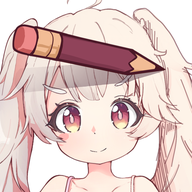
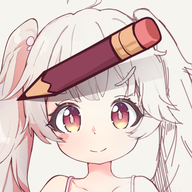
v0.10.14: 图标 v2 全档收货——手绘 32 像素档接线标签页，底色统一 #f6f4ef
大图/小图两份 .ora 底色层补满不透明（user 2026-08-21），导出件零透明像素。
新增 icon-32.png = 手绘 32×32 原样 1:1（不过缩放管线）；icon.svg 退出 favicon 竞争，
只留给 manifest sizes=any——它内嵌 192 栅格，挂 rel=icon 会被浏览器缩成灰雾。
三处接线同步：index.html / SW STATIC_PRECACHE / deploy.yml 白名单。

diff --git a/index.html b/index.html
@@ -51,7 +51,9 @@
     <meta name="apple-mobile-web-app-title" content="WeebPaint" />
     <title>WeebPaint</title>
     <link rel="manifest" href="./manifest.webmanifest" />
-    <link rel="icon" href="./icon.svg" type="image/svg+xml" />
+    <!-- 标签页图标走手绘像素档（32×32 逐像素画的，详 ai-docs/20260821-icon-tiers.md）。icon.svg 内嵌的是 192 栅格，
+         留给 manifest 的 sizes=any 用；若挂在这里浏览器会优先取它再缩到 16，糊成一团。 -->
+    <link rel="icon" href="./icon-32.png" type="image/png" sizes="32x32" />
     <link rel="icon" href="./icon-192.png" type="image/png" sizes="192x192" />
     <link rel="apple-touch-icon" sizes="180x180" href="./apple-touch-icon-180.png" />
     <link rel="stylesheet" href="./styles.css?v=7caf15b1e461" />

diff --git a/src/version.ts b/src/version.ts
@@ -5,4 +5,4 @@
 //
 // v121 起改 ES module 导出：bundle 后 esbuild 把字面值 inline 进 weebpaint-<hash>.mjs。
 // 跟 bundle 一起 hash 出新文件名，不再需要 SW 合成 / import URL rewrite 等老花招。
-export const WEEBPAINT_VERSION = "v0.10.13-2026-08-21";
+export const WEEBPAINT_VERSION = "v0.10.14-2026-08-21";

diff --git a/service-worker.js b/service-worker.js
@@ -14,6 +14,7 @@ const STATIC_PRECACHE = [
   "./index.html",
   "./manifest.webmanifest",
   "./icon.svg",
+  "./icon-32.png",
   "./icon-192.png",
   "./icon-512.png",
   "./apple-touch-icon-180.png",

diff --git a/ai-docs/20260821-icon-tiers.md b/ai-docs/20260821-icon-tiers.md
@@ -1,0 +1,38 @@
+# 图标档位与接线（为什么有一张手绘的 32×32）
+
+> as-of v0.10.14 / 2026-08-21 · 美术源在 OneDrive `apps/WeebPaint/`，不进 repo（大稿 4.6MB）
+
+## 档位表
+
+| 文件 | 来源 | 生成方式 | 用在哪 |
+|---|---|---|---|
+| `icon-32.png` | `20260821-WeebPaint像素图标.ora`（32×32，user 手绘） | **1:1 原样，绝不重采样** | 浏览器标签页 / 书签 / 任务栏 |
+| `icon-192.png` | `20260820-WeebPaint图标设计.ora`（1024×1024） | LANCZOS 缩放 | manifest、`<link rel=icon>` 大档 |
+| `icon-512.png` | 同上 | LANCZOS 缩放 | 装机弹窗、manifest `maskable` |
+| `apple-touch-icon-180.png` | 同上 | LANCZOS 缩放 | iOS/iPad 主屏 |
+| `icon.svg` | 同上 | 内嵌 192 栅格的 `<image>` 包装 | **只给 manifest 的 `sizes:"any"`** |
+
+底色统一 `#f6f4ef`（家族米色，= manifest `background_color`，与 ScratchPad / RealHome 同源）。
+两份 .ora 的底色层 2026-08-21 由 user 补成不透明满铺，导出件因此零透明像素——深色标签栏上不会漏底。
+
+## 两条别再踩回去的线
+
+**① `icon.svg` 不许挂进 `<link rel="icon">`。**
+它内嵌的是 192 栅格、没有任何矢量可缩放性。一旦挂上，浏览器会优先取 SVG 再自行缩到 16 px，
+把细节缩成灰雾——这正是 2026-08-21 那轮要手绘 32 档的起因。标签页必须走 `icon-32.png`。
+
+**② `icon-32.png` 不许由大稿缩放重生成。**
+它是逐像素手画的：线稿整体压淡（最暗 L=59.1）好让铅笔（最暗 L=35.7）成为画面里唯一的深色主体，
+构图也换成拉近裁切（刘海+双眼撑满、铅笔斜切）。大稿缩到 32 得到的是完全不同且糊掉的东西。
+要改这一档，改 .ora 重新导出，别过缩放管线。
+
+## 加档位要同时改三处（deploy.yml 注释里也写着）
+
+1. `service-worker.js` 的 `STATIC_PRECACHE`
+2. `.github/workflows/deploy.yml` 的根目录 asset 拷贝白名单（漏了会静默 404，踩过）
+3. `index.html` 的 `<link>` / `manifest.webmanifest` 的 `icons`
+
+## 未做
+
+- **16×16 没有手绘档**：目前由浏览器从 `icon-32.png` 自行缩。真要 1x 屏标签页锐利，
+  得另画一张 16（那是另一幅画，不是 32 缩的），user 尚未决定要不要。
